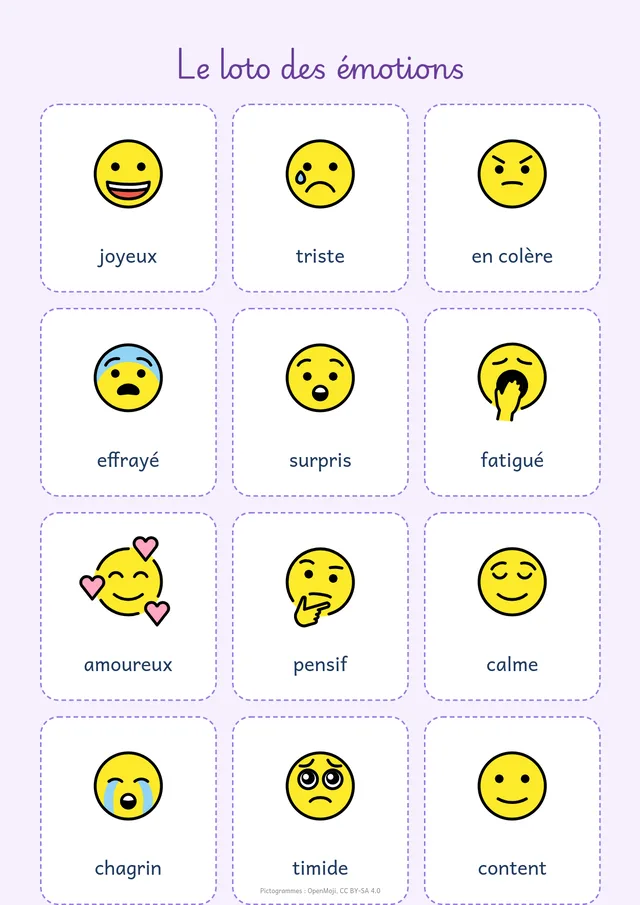
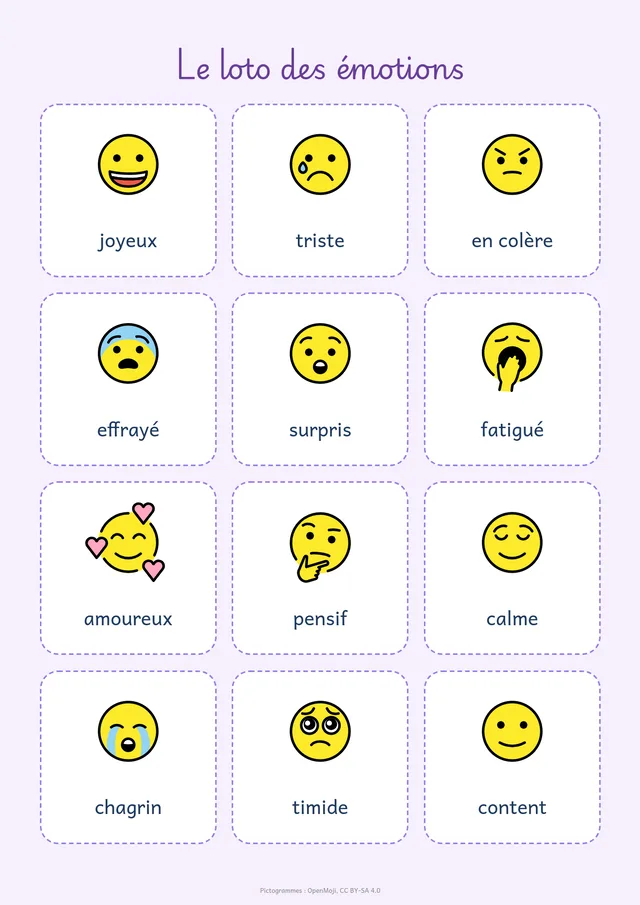
docs(site): fresh screenshots of the app and the examples; loto des émotions fits the page

diff --git a/site/index.html b/site/index.html
@@ -55,7 +55,7 @@
   </div>
 
   <figure class="colle">
-    <img src="img/app-anniversaire.webp" width="1600" height="1029" alt="L'écran de Cahutin : à gauche les outils (modèles, photos, texte, formes, polices, décors), au centre la page « Joyeux anniversaire » avec son gâteau, ses ballons et le prénom de l'enfant à compléter.">
+    <img src="img/app-anniversaire.webp" width="1600" height="900" alt="L\'écran de Cahutin : la barre d\'outils à gauche (modèles, photos, texte, formes, polices, décors, classe), au centre la page « Joyeux anniversaire » avec son gâteau, ses ballons et le prénom à remplir, et en haut le bandeau qui propose de la remplir avec la classe.">
   </figure>
 </header>
 
@@ -64,9 +64,9 @@
   <h2 id="exemples">Des exemples à modifier</h2>
   <p class="intro">Onze exemples sont fournis avec Cahutin. On en ouvre un depuis l'écran d'accueil, on remplace les photos et les textes, et on imprime. Les zones en pointillés attendent vos photos.</p>
   <ul class="exemples">
-    <li><img src="img/page-ferme.webp" width="640" height="902" loading="lazy" alt="Page « Notre sortie à la ferme » sur papier kraft : frise d'animaux, deux photos à déposer avec leur légende, une bulle de parole et une chèvre."><b>Sortie à la ferme</b><span>Frise d'animaux, photos légendées, bulle de parole.</span></li>
+    <li><img src="img/page-ferme.webp" width="640" height="905" loading="lazy" alt="Page « Notre sortie à la ferme » sur papier kraft : frise d'animaux, deux photos à déposer avec leur légende, une bulle de parole et une chèvre."><b>Sortie à la ferme</b><span>Frise d'animaux, photos légendées, bulle de parole.</span></li>
     <li><img src="img/page-anniversaire.webp" width="640" height="905" loading="lazy" alt="Page « Joyeux anniversaire » : ballons et cadeaux en frise, gâteau entouré d'étoiles, prénom et âge de l'enfant à remplir."><b>Joyeux anniversaire</b><span>Prénom et âge remplis avec la classe.</span></li>
-    <li><img src="img/page-meteo.webp" width="640" height="902" loading="lazy" alt="Page « La météo de la semaine » sur petits carreaux : cinq jours avec soleil, nuage, pluie, neige et arc-en-ciel, et une flèche « Aujourd'hui »."><b>La météo de la semaine</b><span>Petits carreaux, une colonne par jour.</span></li>
+    <li><img src="img/page-meteo.webp" width="640" height="905" loading="lazy" alt="Page « La météo de la semaine » sur petits carreaux : cinq jours avec soleil, nuage, pluie, neige et arc-en-ciel, et une flèche « Aujourd'hui »."><b>La météo de la semaine</b><span>Petits carreaux, une colonne par jour.</span></li>
     <li><img src="img/page-prenom.webp" width="640" height="905" loading="lazy" alt="Page « J'écris mon prénom » : le prénom Léa en lettres creuses, puis des lignes Seyès, la première avec le prénom à repasser."><b>J'écris mon prénom</b><span>Lettres creuses, lignes Seyès à repasser.</span></li>
     <li><img src="img/page-saisons.webp" width="640" height="905" loading="lazy" alt="Page « Les saisons » dans un cadre vert : printemps, été, automne et hiver, chacun avec une image et des lignes pour écrire."><b>Les saisons</b><span>Quatre cases, une image et des lignes par saison.</span></li>
     <li><img src="img/page-emotions.webp" width="640" height="905" loading="lazy" alt="Page « Le loto des émotions » : douze cartes à découper, chacune avec un visage et son émotion."><b>Le loto des émotions</b><span>Douze cartes à découper.</span></li>
@@ -92,7 +92,7 @@
     <li><span class="pastille" aria-hidden="true">🖨</span><h3>Imprimer ou partager</h3>A5, A4 ou A3, une affiche A3 sur deux A4, des cartes en recto-verso ; PDF, ou fichier pour LibreOffice où tout reste modifiable. On peut aussi reprendre une fiche Word ou PDF existante.</li>
   </ul>
   <figure class="colle petite">
-    <img src="img/app-decors.webp" width="1600" height="1029" loading="lazy" alt="Le panneau Décors ouvert à côté de la page : recherche d'images, catégories, cadres et frises.">
+    <img src="img/app-decors.webp" width="1600" height="900" loading="lazy" alt="Le panneau Décors ouvert sur la catégorie Émotions, à côté de la page « Le loto des émotions » : douze cartes avec un visage et son mot.">
   </figure>
 </section>
 

diff --git a/crates/carnet-core/src/examples.rs b/crates/carnet-core/src/examples.rs
@@ -433,7 +433,7 @@ fn emotions() -> Page {
         ("1F632", "surpris"), ("1F971", "fatigué"), ("1F970", "amoureux"), ("1F914", "pensif"),
         ("1F60C", "calme"), ("1F62D", "chagrin"), ("1F97A", "timide"), ("1F642", "content"),
     ];
-    let (w, h, gap) = (58.0, 62.0, 5.0);
+    let (w, h, gap) = (58.0, 57.0, 5.0);
     let x0 = (210.0 - (3.0 * w + 2.0 * gap)) / 2.0;
     let mut els = vec![title("Le loto des émotions", 10.0, 26.0, "#6a3d9a")];
     for (i, (code, word)) in cards.iter().enumerate() {
@@ -442,7 +442,7 @@ fn emotions() -> Page {
         if let ElementKind::Shape(s) = &mut card.kind {
             s.stroke = Some(Stroke { width_mm: 0.5, color: "#9b7be0".into(), style: Some(StrokeStyle::Dashed) });
         }
-        els.extend(grouped(vec![card, picto(code, x + 12.0, y + 6.0, 34.0), text(frame(x + 3.0, y + 43.0, w - 6.0, 14.0), word, "Andika", 18.0, INK, Align::Center)]));
+        els.extend(grouped(vec![card, picto(code, x + 14.0, y + 5.0, 30.0), text(frame(x + 3.0, y + 38.0, w - 6.0, 14.0), word, "Andika", 18.0, INK, Align::Center)]));
     }
     page("#f6f0fd", None, els)
 }
